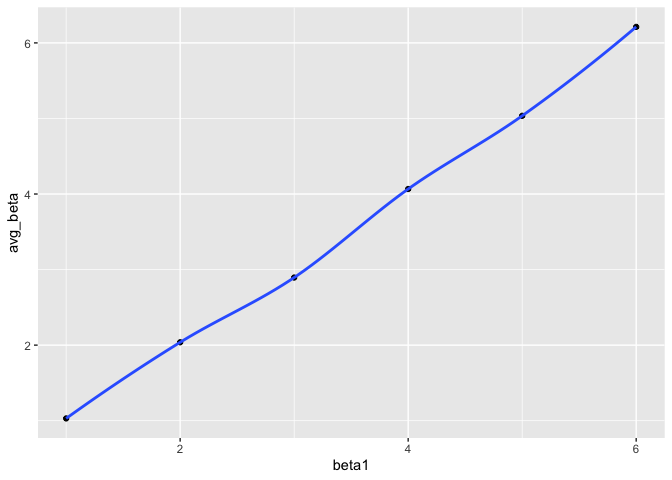
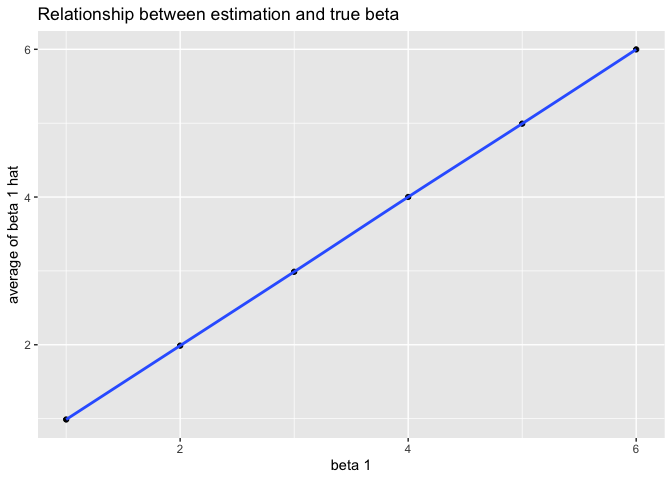
re-run 10000 times on both chunks and added comments for problem 3

diff --git a/hw-5.md b/hw-5.md
@@ -9,14 +9,14 @@ Wurongyan Zhang
 library(tidyverse)
 ```
 
-    ## ─ Attaching packages ─── tidyverse 1.2.1 ─
+    ## ─ Attaching packages ───────────────────── tidyverse 1.2.1 ─
 
     ## ✔ ggplot2 3.2.1     ✔ purrr   0.3.2
     ## ✔ tibble  2.1.3     ✔ dplyr   0.8.3
     ## ✔ tidyr   1.0.0     ✔ stringr 1.4.0
     ## ✔ readr   1.3.1     ✔ forcats 0.4.0
 
-    ## ─ Conflicts ───── tidyverse_conflicts() ─
+    ## ─ Conflicts ─────────────────────── tidyverse_conflicts() ─
     ## ✖ dplyr::filter() masks stats::filter()
     ## ✖ dplyr::lag()    masks stats::lag()
 
@@ -40,6 +40,21 @@ summary(is.na(iris_with_missing)) %>%
 |  | Mode :logical | Mode :logical | Mode :logical | Mode :logical | Mode :logical |
 |  | FALSE:130     | FALSE:130     | FALSE:130     | FALSE:130     |   FALSE:130   |
 |  | TRUE :20      | TRUE :20      | TRUE :20      | TRUE :20      |   TRUE :20    |
+
+``` r
+summary(iris_with_missing) %>% 
+  knitr::kable()
+```
+
+|  | Sepal.Length  |  Sepal.Width  | Petal.Length  |  Petal.Width  |     Species      |
+|  | :-----------: | :-----------: | :-----------: | :-----------: | :--------------: |
+|  |  Min. :4.300  |  Min. :2.000  |  Min. :1.000  |  Min. :0.100  |    Length:150    |
+|  | 1st Qu.:5.100 | 1st Qu.:2.800 | 1st Qu.:1.600 | 1st Qu.:0.300 | Class :character |
+|  | Median :5.700 | Median :3.000 | Median :4.400 | Median :1.300 | Mode :character  |
+|  |  Mean :5.819  |  Mean :3.075  |  Mean :3.765  |  Mean :1.192  |        NA        |
+|  | 3rd Qu.:6.400 | 3rd Qu.:3.400 | 3rd Qu.:5.100 | 3rd Qu.:1.800 |        NA        |
+|  |  Max. :7.900  |  Max. :4.400  |  Max. :6.900  |  Max. :2.500  |        NA        |
+|  |   NA’s :20    |   NA’s :20    |   NA’s :20    |   NA’s :20    |        NA        |
 
 As we can see from the summary above, the data set iris\_with\_missing
 has 20 missing values in each of the 5 variables.
@@ -153,7 +168,7 @@ sim_results=
 ``` r
 sim_results16= 
   tibble(beta1=c(1:6)) %>% 
-  mutate(model= map(beta1,~rerun(100, sim_regression(beta1=.x)))) %>% 
+  mutate(model= map(beta1,~rerun(10000, sim_regression(beta1=.x)))) %>% 
   unnest() %>% 
   unnest
 ```
@@ -173,6 +188,9 @@ sim_results16 %>%
 
 ![](hw-5_files/figure-gfm/unnamed-chunk-9-1.png)<!-- -->
 
+The relationship between effect size and power is positive and at a
+certain point the rate of increasing will decrease.
+
 ``` r
 average = 
   sim_results16 %>% 
@@ -186,14 +204,11 @@ average =
 null_reject =
   sim_results16 %>% 
   pivot_wider(names_from = term,
-              values_from = estimate) %>% 
-  filter(p.value<0.05) %>% 
-  group_by(beta1) %>% 
-  summarise(avg_beta_null=mean(beta1_hat))
+              values_from = estimate) %>% filter(p.value<0.05) %>% group_by(beta1) %>% summarise(avg_beta_null=mean(beta1_hat))
 ```
 
 ``` r
-average %>% ggplot(aes(x=beta1, y=avg_beta))+ geom_point()+geom_smooth()
+average %>% ggplot(aes(x=beta1, y=avg_beta))+ geom_point()+geom_smooth()+labs(title="Relationship between estimation and true beta", x="beta 1", y="average of beta 1 hat")
 ```
 
     ## `geom_smooth()` using method = 'loess' and formula 'y ~ x'
@@ -211,7 +226,7 @@ average %>% ggplot(aes(x=beta1, y=avg_beta))+ geom_point()+geom_smooth()
 ![](hw-5_files/figure-gfm/unnamed-chunk-12-1.png)<!-- -->
 
 ``` r
-null_reject %>% ggplot(aes(x=beta1, y=avg_beta_null))+ geom_point()+geom_smooth()
+null_reject %>% ggplot(aes(x=beta1, y=avg_beta_null))+ geom_point()+geom_smooth()+labs(title="Relationship between estimation and true beta on rejected data", x="beta 1", y="average of beta 1 hat")
 ```
 
     ## `geom_smooth()` using method = 'loess' and formula 'y ~ x'
@@ -227,3 +242,48 @@ null_reject %>% ggplot(aes(x=beta1, y=avg_beta_null))+ geom_point()+geom_smooth(
     ## Warning in stats::qt(level/2 + 0.5, pred$df): 产生了NaNs
 
 ![](hw-5_files/figure-gfm/unnamed-chunk-12-2.png)<!-- -->
+
+As we can see from those two plots, the rejected sample’s average
+beta1\_hat is always higher than the true value of beta\_1, however, at
+certain point, the sample average beta1\_hat get closer to true value as
+beta\_1 increases.
+
+``` r
+ggplot() + 
+  geom_point(aes(x = beta1, y = avg_beta, color = "red"), 
+             data = average, size = 4, alpha = .4) +
+  geom_smooth(aes(x = beta1, y = avg_beta_null, color = "red"), 
+              data = null_reject, alpha = .5) +
+  geom_point(aes(x = beta1, y = avg_beta_null, color = "blue"), 
+             data = null_reject, size = 4, alpha = .4) +geom_smooth(aes(x = beta1, y = avg_beta_null, color = "blue"), 
+             data = null_reject, alpha = .5) +
+  scale_color_identity(breaks = c("red", "blue"),
+                       labels = c("True values", "Sample values"),
+                       guide = "legend")
+```
+
+    ## `geom_smooth()` using method = 'loess' and formula 'y ~ x'
+
+    ## Warning in simpleLoess(y, x, w, span, degree = degree, parametric =
+    ## parametric, : Chernobyl! trL>n 6
+    
+    ## Warning in simpleLoess(y, x, w, span, degree = degree, parametric =
+    ## parametric, : Chernobyl! trL>n 6
+
+    ## Warning in sqrt(sum.squares/one.delta): 产生了NaNs
+
+    ## Warning in stats::qt(level/2 + 0.5, pred$df): 产生了NaNs
+
+    ## `geom_smooth()` using method = 'loess' and formula 'y ~ x'
+
+    ## Warning in simpleLoess(y, x, w, span, degree = degree, parametric =
+    ## parametric, : Chernobyl! trL>n 6
+
+    ## Warning in simpleLoess(y, x, w, span, degree = degree, parametric =
+    ## parametric, : Chernobyl! trL>n 6
+
+    ## Warning in sqrt(sum.squares/one.delta): 产生了NaNs
+
+    ## Warning in stats::qt(level/2 + 0.5, pred$df): 产生了NaNs
+
+![](hw-5_files/figure-gfm/unnamed-chunk-13-1.png)<!-- -->
